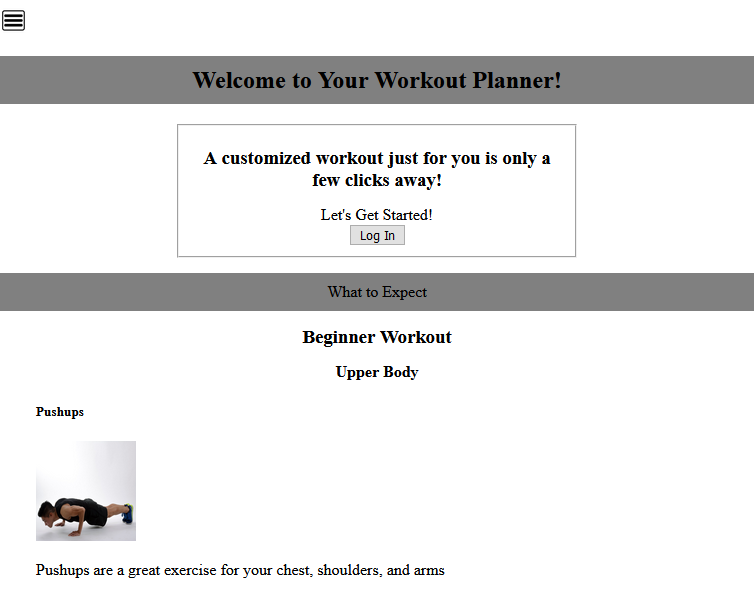
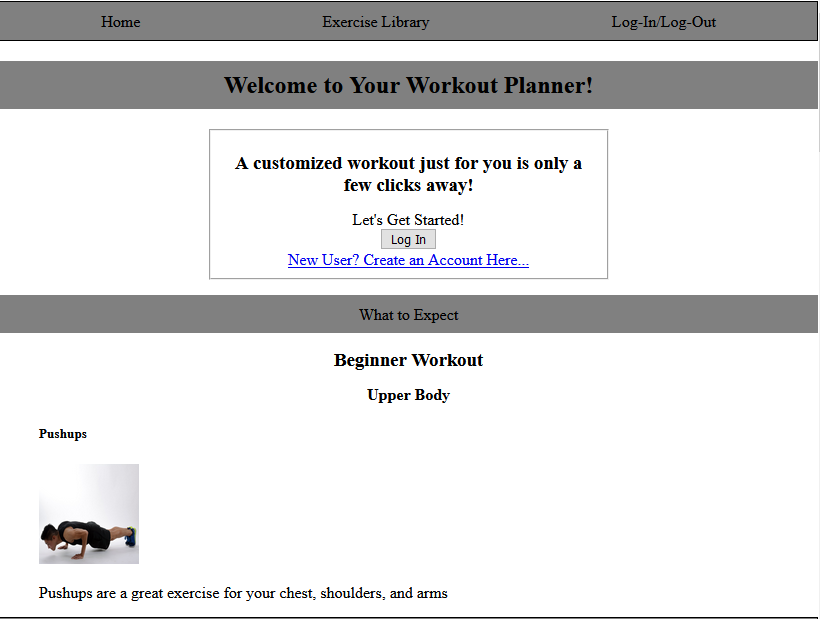
grey-box wireframes done, and screenshots added

diff --git a/README.md b/README.md
@@ -91,16 +91,40 @@ Basic Information Page
 :-------------------------:
 ![Basic Information Page](/github-images/wireframes/basic-information.jpg)
 
-Nav-bar
-:-------------------------:
-![Nav-bar](/github-images/wireframes/welcome-page.jpg)
-
 
 
 ## Screenshots
 Welcome Page and What to Expect
 :-------------------------:
 ![Landing Page](/github-images/screenshots/welcome-page.png)
+
+Login Page
+:-------------------------:
+![Login Page](/github-images/screenshots/login-page.png)
+
+Sign-up Page
+:-------------------------:
+![Sign-up Page](/github-images/screenshots/sign-up-page.png)
+
+Empty Library
+:-------------------------:
+![Empty Library](/github-images/screenshots/empty-library.png)
+
+Filled Library
+:-------------------------:
+![LFilled Library](/github-images/screenshots/filled-library.png)
+
+Workout Builder
+:-------------------------:
+![Workout Builder](/github-images/screenshots/workout-builder.png)
+
+Workout Page
+:-------------------------:
+![Workout Page](/github-images/screenshots/workout-page.png)
+
+Basic Information Page
+:-------------------------:
+![Basic Information Page](/github-images/screenshots/basic-information.png)
 
 
 ## Functionality
